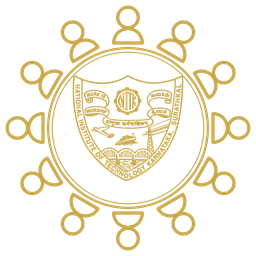
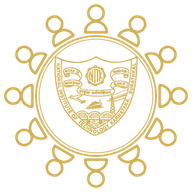
Faster page load: shorter splash, Razorpay on Pay, smaller images, one admin events request
- Splash: leave as soon as sign-in is known (0.3 s minimum, was 1.5 s).
- Razorpay's checkout script is added the first time someone pays
  instead of on every page load (it was included twice and pulled in
  about a hundred files each time). Also settles ISSUE-022.
- Header logo and emblems resized to their shown size (3x) and saved with
  256 colours: about 335 KB to 41 KB.
- The "mine" tint and the drafts count share one admin events request.

Claude-Session: https://claude.ai/code/session_015gdMeWtg1ySLE1i6TPu7wE

diff --git a/frontend/lib/features/events/presentation/services/razorpay_payment_web.dart b/frontend/lib/features/events/presentation/services/razorpay_payment_web.dart
@@ -1,9 +1,11 @@
 /// Web implementation of Razorpay Checkout.
 ///
-/// Uses the Razorpay Checkout JS SDK loaded in web/index.html
-/// (https://checkout.razorpay.com/v1/checkout.js). The order is created
-/// server-side first; this only opens the checkout and bridges the
-/// success/error callbacks back to Dart.
+/// Uses the Razorpay Checkout JS SDK
+/// (https://checkout.razorpay.com/v1/checkout.js), loaded here the first
+/// time someone pays rather than by web/index.html: on every page load it
+/// pulled in about a hundred Razorpay files nobody needed until Pay. The
+/// order is created server-side first; this only opens the checkout and
+/// bridges the success/error callbacks back to Dart.
 library;
 
 import 'dart:async';
@@ -17,6 +19,7 @@ Future<RazorpayCheckoutResult> openRazorpayCheckout(
 ) async {
   final completer = Completer<RazorpayCheckoutResult>();
 
+  await _loadRazorpay();
   if (!globalContext.has('Razorpay')) {
     throw const RazorpayCheckoutFailureException(
       'Razorpay checkout could not be loaded. Please refresh and try again.',
@@ -140,4 +143,40 @@ Future<RazorpayCheckoutResult> openRazorpayCheckout(
 String _strProp(JSObject obj, String key) {
   final value = obj[key];
   return value.isA<JSString>() ? (value as JSString).toDart : '';
+}
+
+const _checkoutScript = 'https://checkout.razorpay.com/v1/checkout.js';
+
+/// The script load in progress or done, shared so a second Pay press
+/// doesn't add the script twice. Reset after a failure, so the next press
+/// tries again.
+Future<void>? _loading;
+
+/// Adds Razorpay's checkout script to the page, once, and waits for it.
+/// Does nothing if `window.Razorpay` is already there (a test's fake, or an
+/// earlier payment). A failed or slow load leaves `window.Razorpay` unset,
+/// and the caller shows its "could not be loaded" message.
+Future<void> _loadRazorpay() {
+  if (globalContext.has('Razorpay')) return Future.value();
+  return _loading ??= _injectScript().catchError((Object _) {
+    _loading = null;
+  });
+}
+
+Future<void> _injectScript() {
+  final done = Completer<void>();
+  final document = globalContext['document'] as JSObject;
+  final script = document.callMethod<JSObject>('createElement'.toJS, 'script'.toJS);
+  script['src'] = _checkoutScript.toJS;
+  script['async'] = true.toJS;
+  script['onload'] = ((JSAny? _) {
+    if (!done.isCompleted) done.complete();
+  }).toJS;
+  script['onerror'] = ((JSAny? _) {
+    // Remove it, so the next press adds a fresh one.
+    script.callMethod<JSAny?>('remove'.toJS);
+    if (!done.isCompleted) done.completeError(StateError('Razorpay script failed to load'));
+  }).toJS;
+  (document['head'] as JSObject).callMethod<JSAny?>('appendChild'.toJS, script);
+  return done.future.timeout(const Duration(seconds: 20));
 }

diff --git a/frontend/lib/features/events/presentation/providers/created_events_provider.dart b/frontend/lib/features/events/presentation/providers/created_events_provider.dart
@@ -2,37 +2,38 @@ import 'package:flutter_riverpod/flutter_riverpod.dart';
 
 import '../../../auth/services/auth_controller.dart';
 import '../../data/events_repository.dart';
+import '../../domain/event.dart';
 
-/// IDs of the events the signed-in person created, for the "mine" tint on
-/// public pages (the public API doesn't say who created an event).
+/// The events the signed-in person administers (all of them for an overall
+/// admin), any status, fetched once and shared: the "mine" tint below and
+/// the Events page's drafts count both come from it.
 ///
-/// Only people with admin rights can create events, and only they can read
-/// the admin events list, which does carry the creator. Everyone else gets
-/// an empty set without a request. Failures also give an empty set: the
-/// tint is a nicety, never worth an error.
-final createdEventIdsProvider = FutureProvider<Set<int>>((ref) async {
+/// Only people with admin rights can read the admin events list. Everyone
+/// else gets an empty list without a request. Failures also give an empty
+/// list: the tint and the count are niceties, never worth an error.
+final myAdminEventsProvider = FutureProvider<List<AppEvent>>((ref) async {
   final auth = ref.watch(authControllerProvider);
   final session = auth.session;
   if (!auth.isAuthenticated || session == null || !session.access.isAnyAdmin) {
-    return const <int>{};
+    return const <AppEvent>[];
   }
   try {
-    final data = await ref.read(eventsRepositoryProvider).getAdminEvents(
-          page: 1,
-          perPage: 100,
-          period: 'all',
-          accessToken: session.accessToken,
-        );
-    final ids = <int>{};
-    for (final raw in data['events'] as List<dynamic>? ?? const []) {
-      if (raw is Map &&
-          raw['created_by_firebase_uid'] == session.firebaseUid &&
-          raw['event_id'] is int) {
-        ids.add(raw['event_id'] as int);
-      }
-    }
-    return ids;
+    return await ref
+        .read(eventsRepositoryProvider)
+        .getAllAdminEvents(session.accessToken);
   } catch (_) {
-    return const <int>{};
+    return const <AppEvent>[];
   }
+});
+
+/// IDs of the events the signed-in person created, for the "mine" tint on
+/// public pages (the public API doesn't say who created an event).
+final createdEventIdsProvider = FutureProvider<Set<int>>((ref) async {
+  final uid = ref.watch(authControllerProvider).session?.firebaseUid;
+  final events = await ref.watch(myAdminEventsProvider.future);
+  if (uid == null) return const <int>{};
+  return {
+    for (final e in events)
+      if (e.createdByUid == uid) e.eventId,
+  };
 });

diff --git a/frontend/lib/features/admin/presentation/event_admin_actions.dart b/frontend/lib/features/admin/presentation/event_admin_actions.dart
@@ -22,22 +22,17 @@ import '../../../shared/widgets/notice.dart';
 /// Admin badge (Actions counts).
 void refreshEventLists(WidgetRef ref) {
   ref.read(eventsProvider.notifier).fetchEvents(isRefresh: true);
-  ref.invalidate(createdEventIdsProvider);
-  ref.invalidate(myDraftCountProvider);
+  // The tint and the drafts count follow this one list.
+  ref.invalidate(myAdminEventsProvider);
   ref.invalidate(pendingCountProvider);
 }
 
 /// How many drafts the signed-in person can work on (their events; all of
 /// them for an overall admin), for the "N drafts" link on the Events page.
+/// Shares one admin events request with the "mine" tint.
 final myDraftCountProvider = FutureProvider<int>((ref) async {
-  final session = ref.watch(authControllerProvider).session;
-  if (session == null || !session.access.isAnyAdmin) return 0;
-  try {
-    final events = await ref.read(eventsRepositoryProvider).getAllAdminEvents(session.accessToken);
-    return events.where((e) => e.status == 'draft').length;
-  } catch (_) {
-    return 0;
-  }
+  final events = await ref.watch(myAdminEventsProvider.future);
+  return events.where((e) => e.status == 'draft').length;
 });
 
 /// The actions an event's admins can take on it, wherever the event is

diff --git a/frontend/lib/features/auth/presentation/screens/splash_screen.dart b/frontend/lib/features/auth/presentation/screens/splash_screen.dart
@@ -39,7 +39,9 @@ class _SplashScreenState extends State<SplashScreen> {
     }
 
     final elapsed = DateTime.now().difference(_startTime);
-    final remaining = const Duration(milliseconds: 1500) - elapsed;
+    // A short minimum so the splash doesn't just flash; sign-in itself is
+    // waited for above. (It was 1.5 s, which held every page load back.)
+    final remaining = const Duration(milliseconds: 300) - elapsed;
     if (remaining.isNegative) {
       // A sign-in link that needs the email, or that failed: the login
       // screen asks or explains.

diff --git a/frontend/web/index.html b/frontend/web/index.html
@@ -35,10 +35,7 @@
   <meta name="theme-color" content="#09192e">
   <link rel="manifest" href="manifest.json">
 
-  <!-- Razorpay Checkout SDK (used by the payment/checkout flow on Flutter Web) -->
-  <script src="https://checkout.razorpay.com/v1/checkout.js"></script>
 </head>
 <body>
-  <script src="https://checkout.razorpay.com/v1/checkout.js"></script>
   <script src="flutter_bootstrap.js" type="application/javascript"></script>
 </html>
